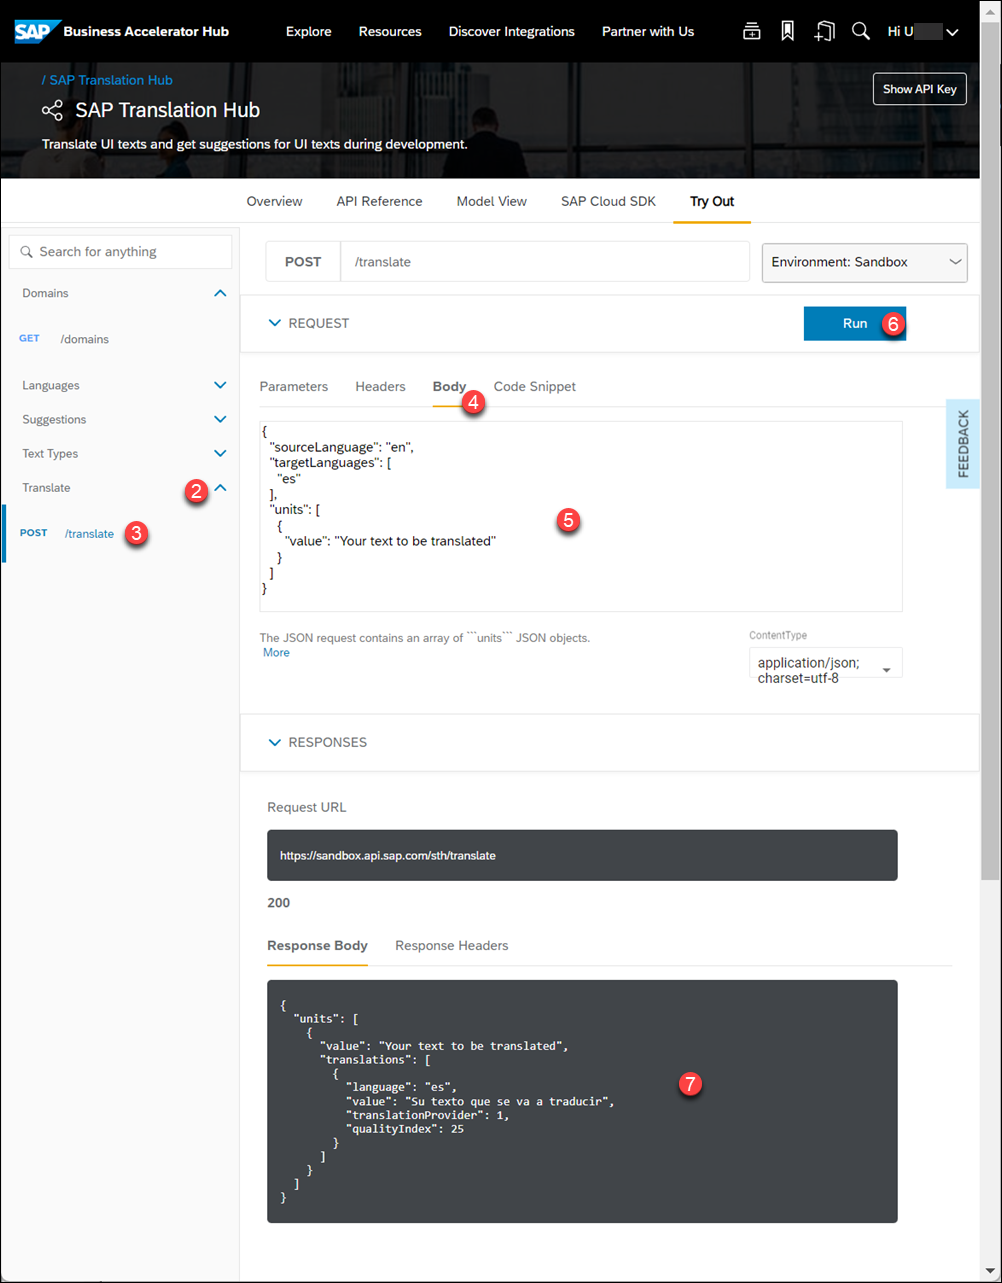
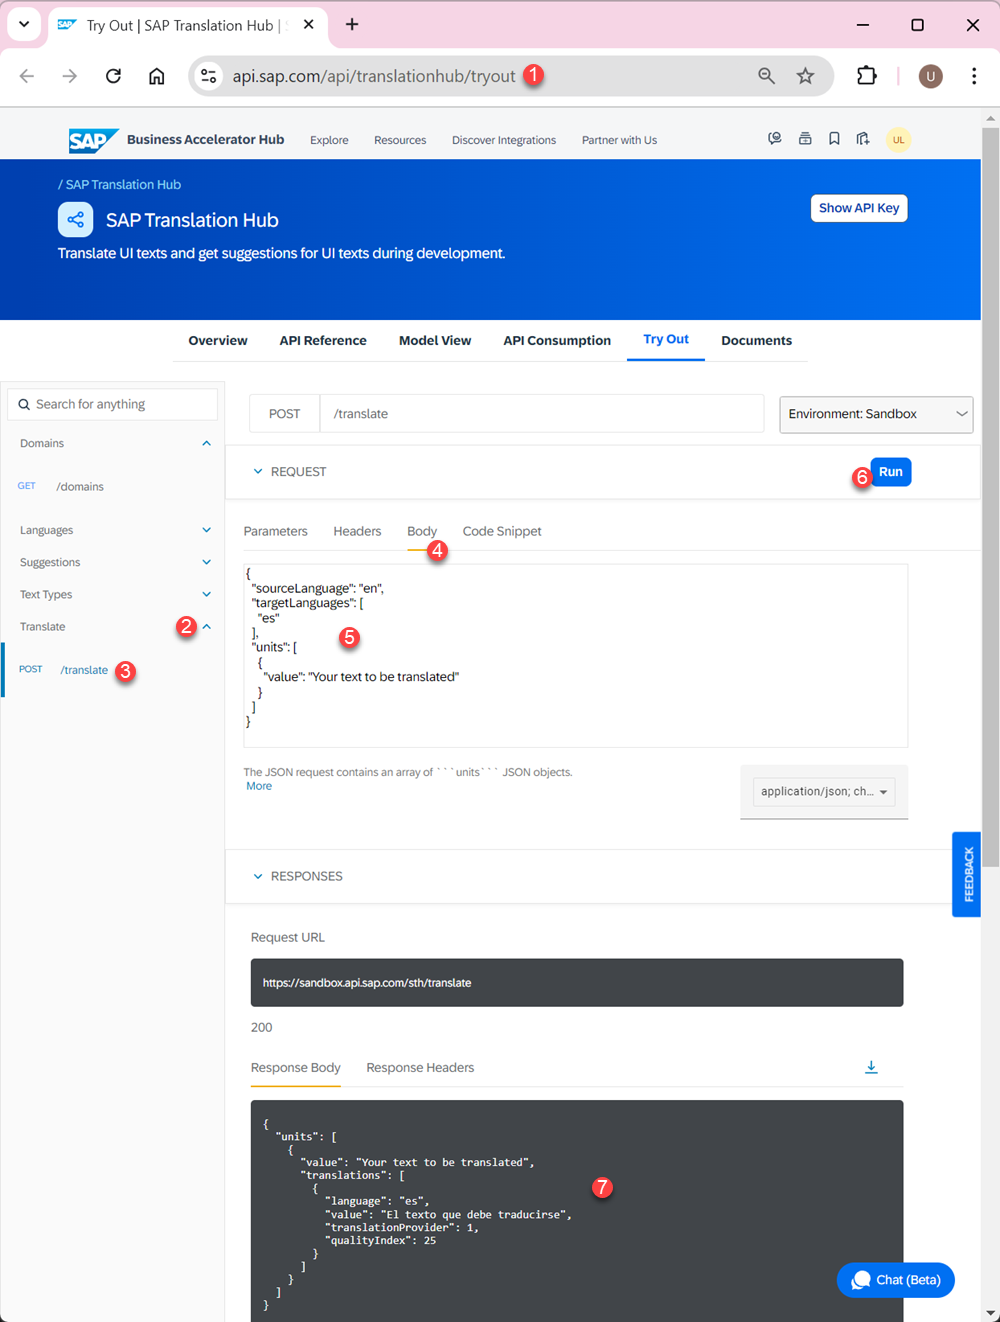
update API Hub tutorial and responsibility

diff --git a/tutorials/abap-extensibility-cbo-execute-outbound-service/abap-extensibility-cbo-execute-outbound-service.md b/tutorials/abap-extensibility-cbo-execute-outbound-service/abap-extensibility-cbo-execute-outbound-service.md
@@ -4,10 +4,10 @@ auto_validation: true
 primary_tag: programming-tool>abap-extensibility
 tags: [  tutorial>intermediate, tutorial>license, topic>abap-extensibility, topic>cloud, products>sap-s-4hana ]
 time: 15
-author_name: Ulrike Liebherr
-author_profile: https://github.com/Liebherr
+author_name: Peter Persiel
+author_profile: https://github.com/peterpersiel
 ---
-<!--DONE in E1Y-->
+<!--DONE in E1Y (https://dlm.wdf.sap.corp/launchpad/portal/#/Search/e1y -> https://my300098.s4hana.ondemand.com/)-->
 # Execute an Outbound Service from Custom Business Object Logic
 <!-- description --> Call an external service of SAP Business Accelerator Hub from inside the logic implementation of a custom business object.
 
@@ -27,16 +27,17 @@ author_profile: https://github.com/Liebherr
 The example application of `Bonus Entitlement` will be enhanced by a feedback functionality. The manager's feedback will be translated automatically into English by calling the externally available service **SAP Translation Hub** of SAP.
 > Be aware that the example is done with the SAP Business Accelerator Hub Sandbox system only. This shall only give an idea on how it works and cannot be used productively.
 
->Tutorial last updated with SAP S/4HANA Cloud Release 2302
+>Tutorial feasibility last checked with SAP S/4HANA Cloud Release 2408
   
 ---
 ### Excursus - Try out the service in SAP Business Accelerator Hub
 
 To get to know the SAP Translation Hub service first, you can try it out in SAP Business Accelerator Hub.
 
-1. Go to [Try out of SAP Translation Hub on SAP Business Accelerator Hub](https://api.sap.com/api/translationhub/tryout)
+<!--border-->
+![Try out of SAP Translation Hub on SAP Business Accelerator Hub](API_Hub_TryOut.png)
 
-    ![Try out of SAP Translation Hub on SAP Business Accelerator Hub](API_Hub_TryOut.png)
+1. Go to [Try out of SAP Translation Hub on SAP Business Accelerator Hub](https://api.sap.com/api/translationhub/tryout)
 
 2. Expand the **Translate** operations section .
 
@@ -178,7 +179,7 @@ Define the external SAP Business Accelerator Hub service as an available Communi
 
 Create a Communication Arrangement to link the scenario with the communication system.
 
-1. Start typing **Custom Communication Arrangements** in the Launchpad search and open the App from the results.
+1. Start typing **Communication Arrangements** in the Launchpad search and open the App from the results.
 
     ![Custom Communication Arrangements application from search results](FLP_searchResult_CA.png)
 
@@ -287,6 +288,7 @@ Now as the business object has just been published, the logic can be enhanced by
             }
         ]
     }
+
     ```
 
     In the custom business object logic you have to supply this request as string. The `sourceLanguage` and `value` values have to be replaced with variables by string concatenation.
@@ -338,17 +340,19 @@ Now as the business object has just been published, the logic can be enhanced by
 
         ```json
         {
-            "units": [
+        "units": [
+            {
+            "value": "Su texto a traducir",
+            "translations": [
                 {
-                    "value": "Su texto a traducir",
-                    "translations": [
-                        {
-                            "language": "en",
-                            "value": "Your text to translate"
-                        }
-                    ]
+                "language": "en",
+                "value": "Your text to translate",
+                "translationProvider": 1,
+                "qualityIndex": 25
                 }
             ]
+            }
+        ]
         }
         ```
 
@@ -398,6 +402,8 @@ Now as the business object has just been published, the logic can be enhanced by
     | :------------- | :--------------------------- |
     | Feedback | **`Su texto a traducir`** |
     | Feedback's Language | **`es`** |
+
+    > Please note that the language code must be entered in lower case to ensure that the service call is successful.
 
 5. **Save** the Bonus Entitlement. The translation will get filled.
 
